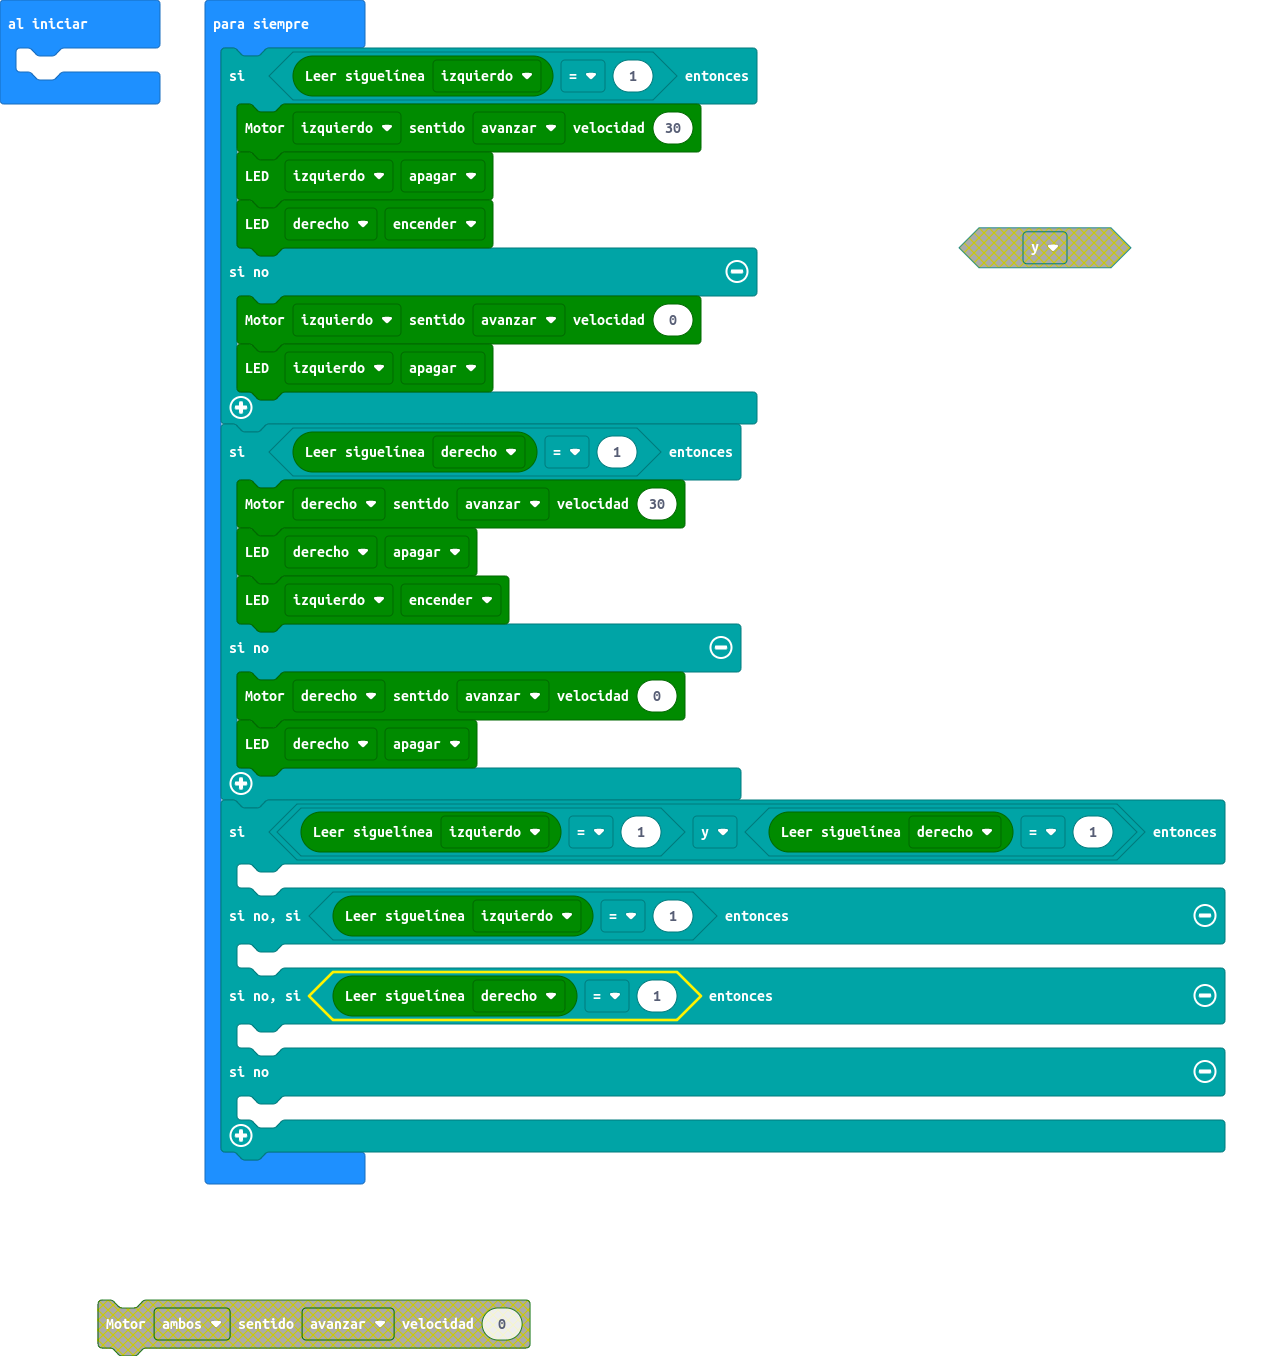
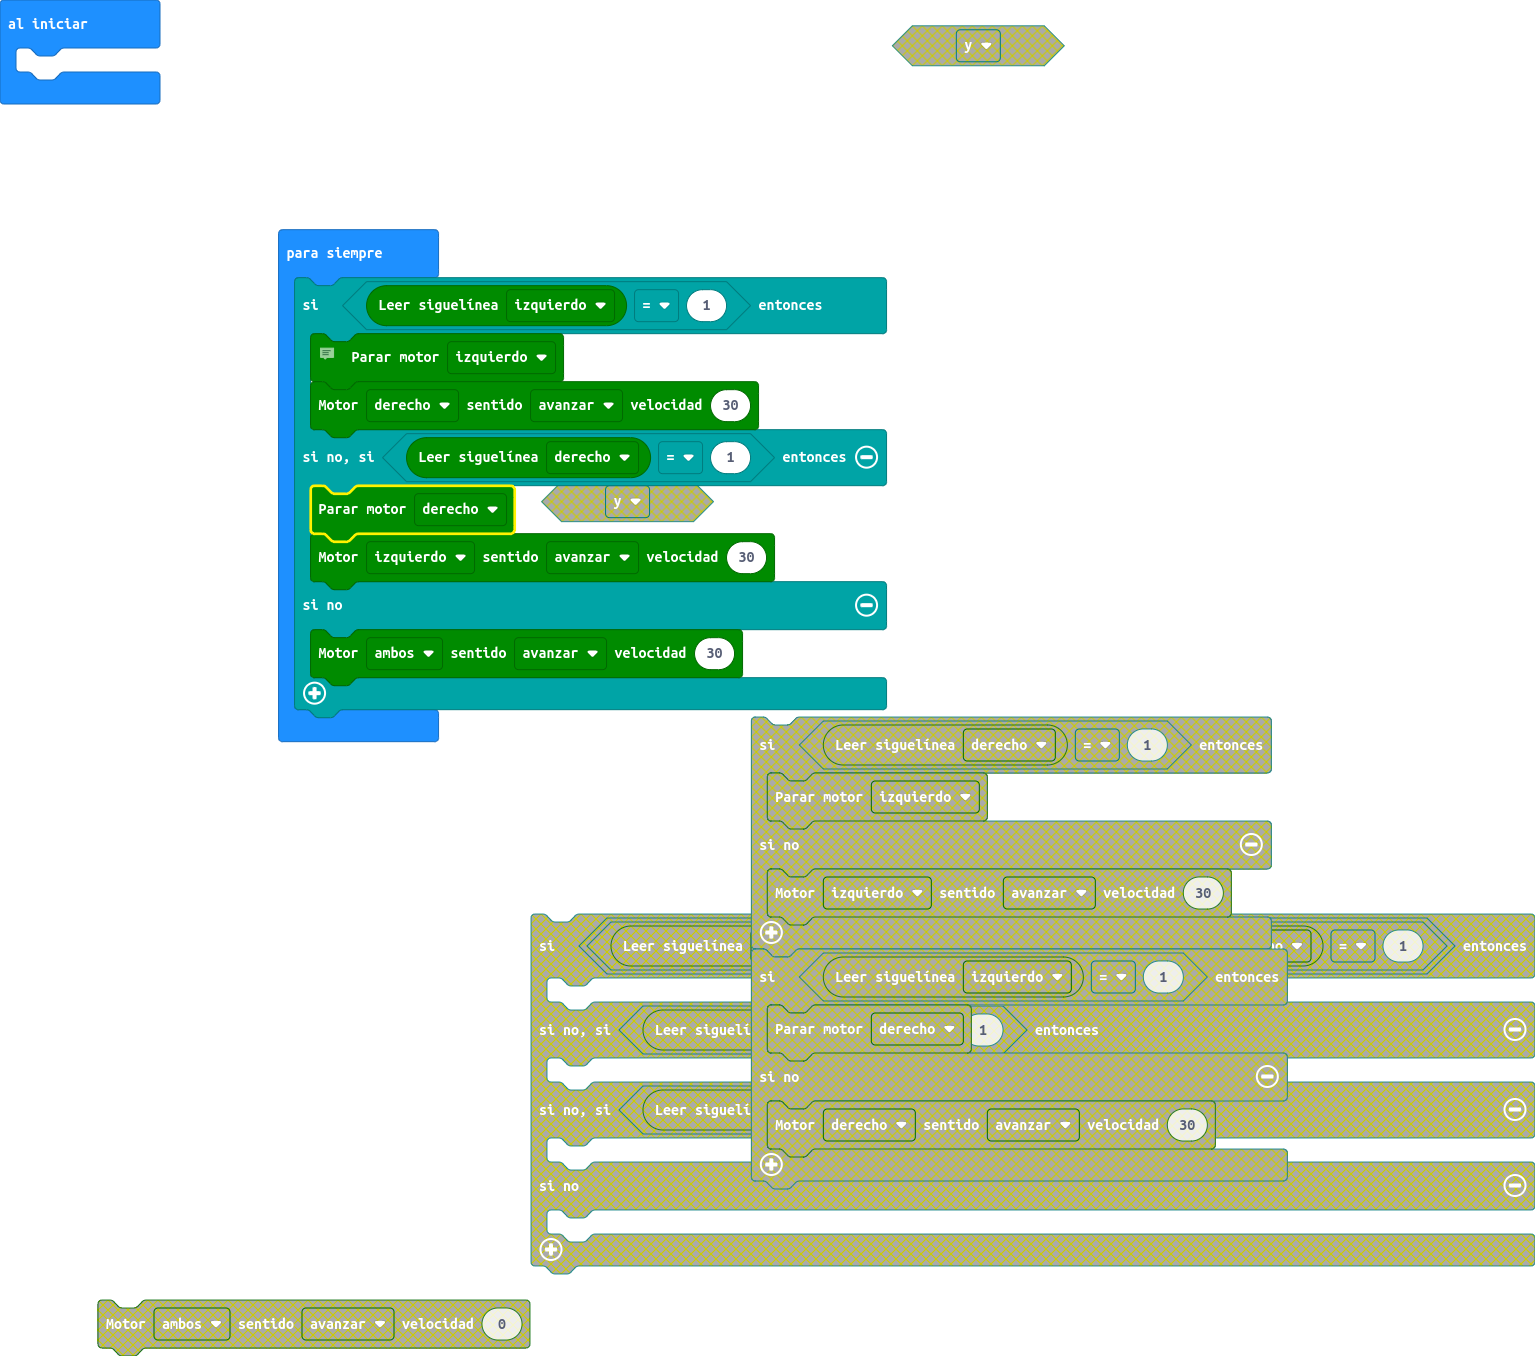
Actualizar main.blocks, main.ts

diff --git a/main.ts b/main.ts
@@ -1,27 +1,12 @@
 basic.forever(function () {
     if (maqueen.readPatrol(maqueen.Patrol.PatrolLeft) == 1) {
-        maqueen.motorRun(maqueen.Motors.M1, maqueen.Dir.CW, 30)
-        maqueen.writeLED(maqueen.LED.LEDRight, maqueen.LEDswitch.turnOff)
-        maqueen.writeLED(maqueen.LED.LEDLeft, maqueen.LEDswitch.turnOn)
-    } else {
-        maqueen.motorRun(maqueen.Motors.M1, maqueen.Dir.CW, 0)
-        maqueen.writeLED(maqueen.LED.LEDRight, maqueen.LEDswitch.turnOff)
-    }
-    if (maqueen.readPatrol(maqueen.Patrol.PatrolRight) == 1) {
+        // 
+        maqueen.motorStop(maqueen.Motors.M1)
         maqueen.motorRun(maqueen.Motors.M2, maqueen.Dir.CW, 30)
-        maqueen.writeLED(maqueen.LED.LEDLeft, maqueen.LEDswitch.turnOff)
-        maqueen.writeLED(maqueen.LED.LEDRight, maqueen.LEDswitch.turnOn)
-    } else {
-        maqueen.motorRun(maqueen.Motors.M2, maqueen.Dir.CW, 0)
-        maqueen.writeLED(maqueen.LED.LEDLeft, maqueen.LEDswitch.turnOff)
-    }
-    if (maqueen.readPatrol(maqueen.Patrol.PatrolLeft) == 1 && maqueen.readPatrol(maqueen.Patrol.PatrolRight) == 1) {
-    	
-    } else if (maqueen.readPatrol(maqueen.Patrol.PatrolLeft) == 1) {
-    	
     } else if (maqueen.readPatrol(maqueen.Patrol.PatrolRight) == 1) {
-    	
+        maqueen.motorStop(maqueen.Motors.M2)
+        maqueen.motorRun(maqueen.Motors.M1, maqueen.Dir.CW, 30)
     } else {
-    	
+        maqueen.motorRun(maqueen.Motors.All, maqueen.Dir.CW, 30)
     }
 })
